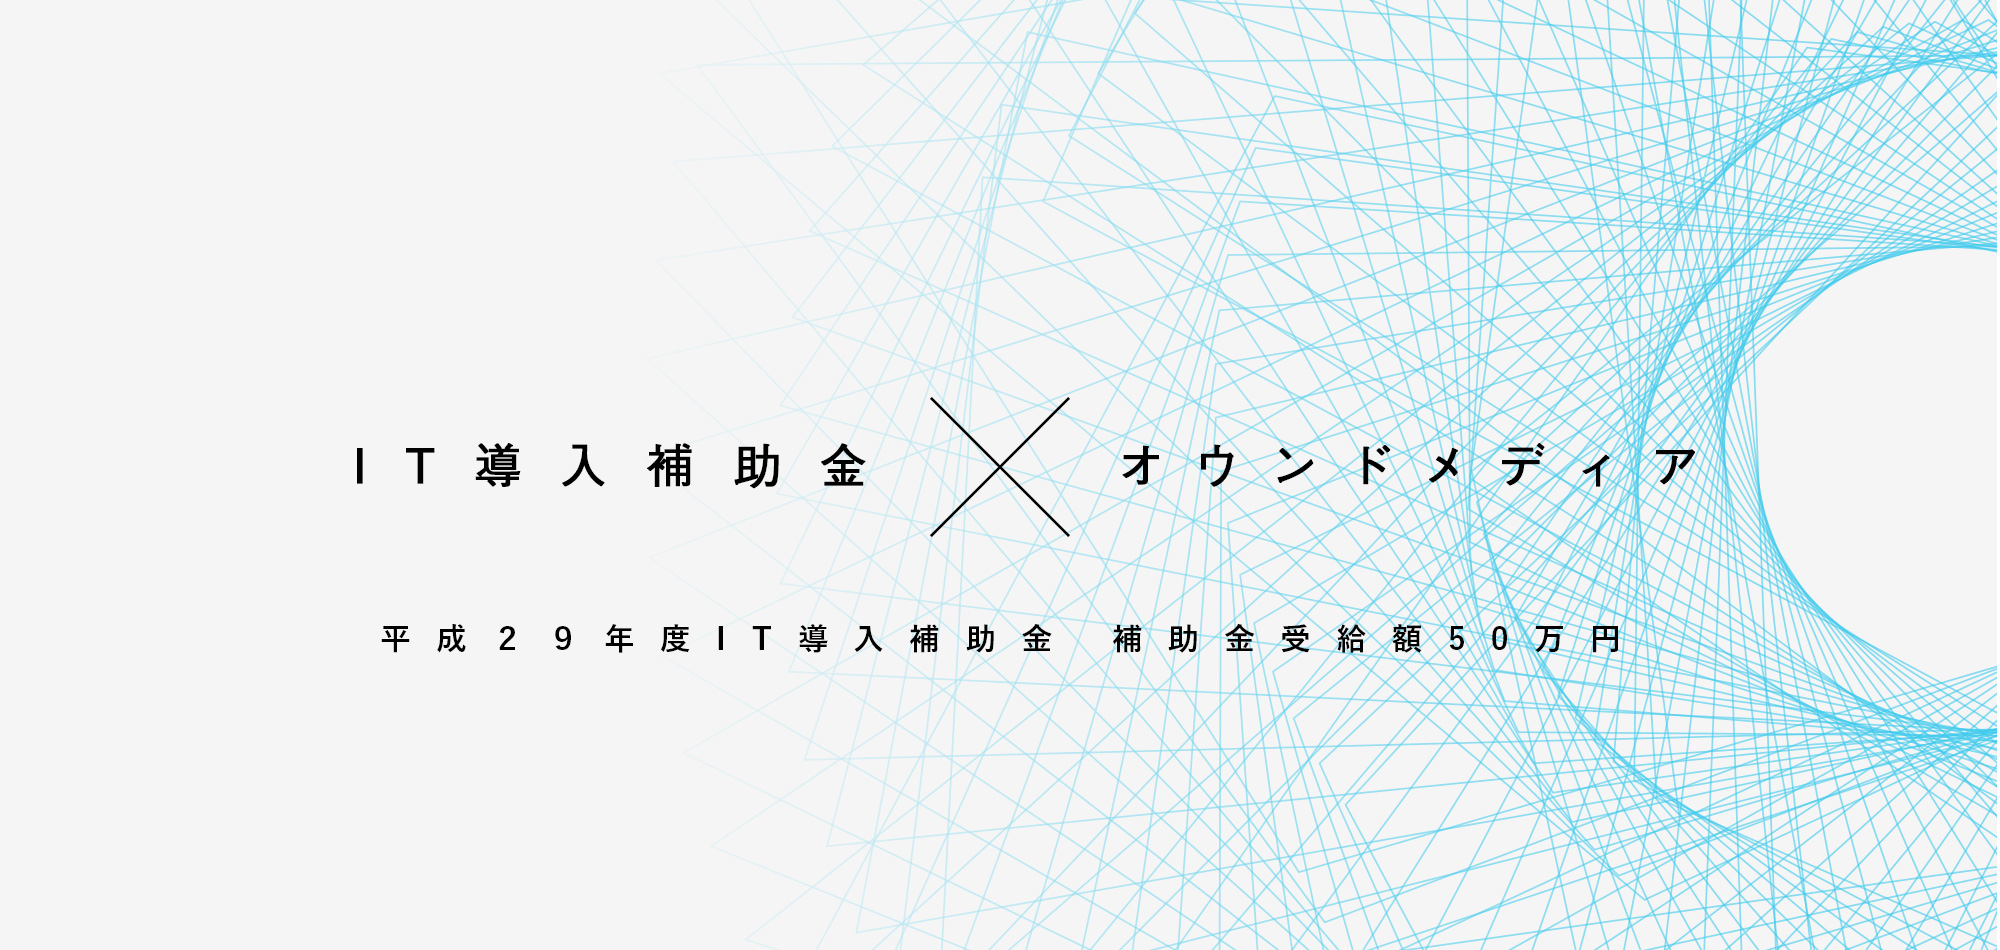
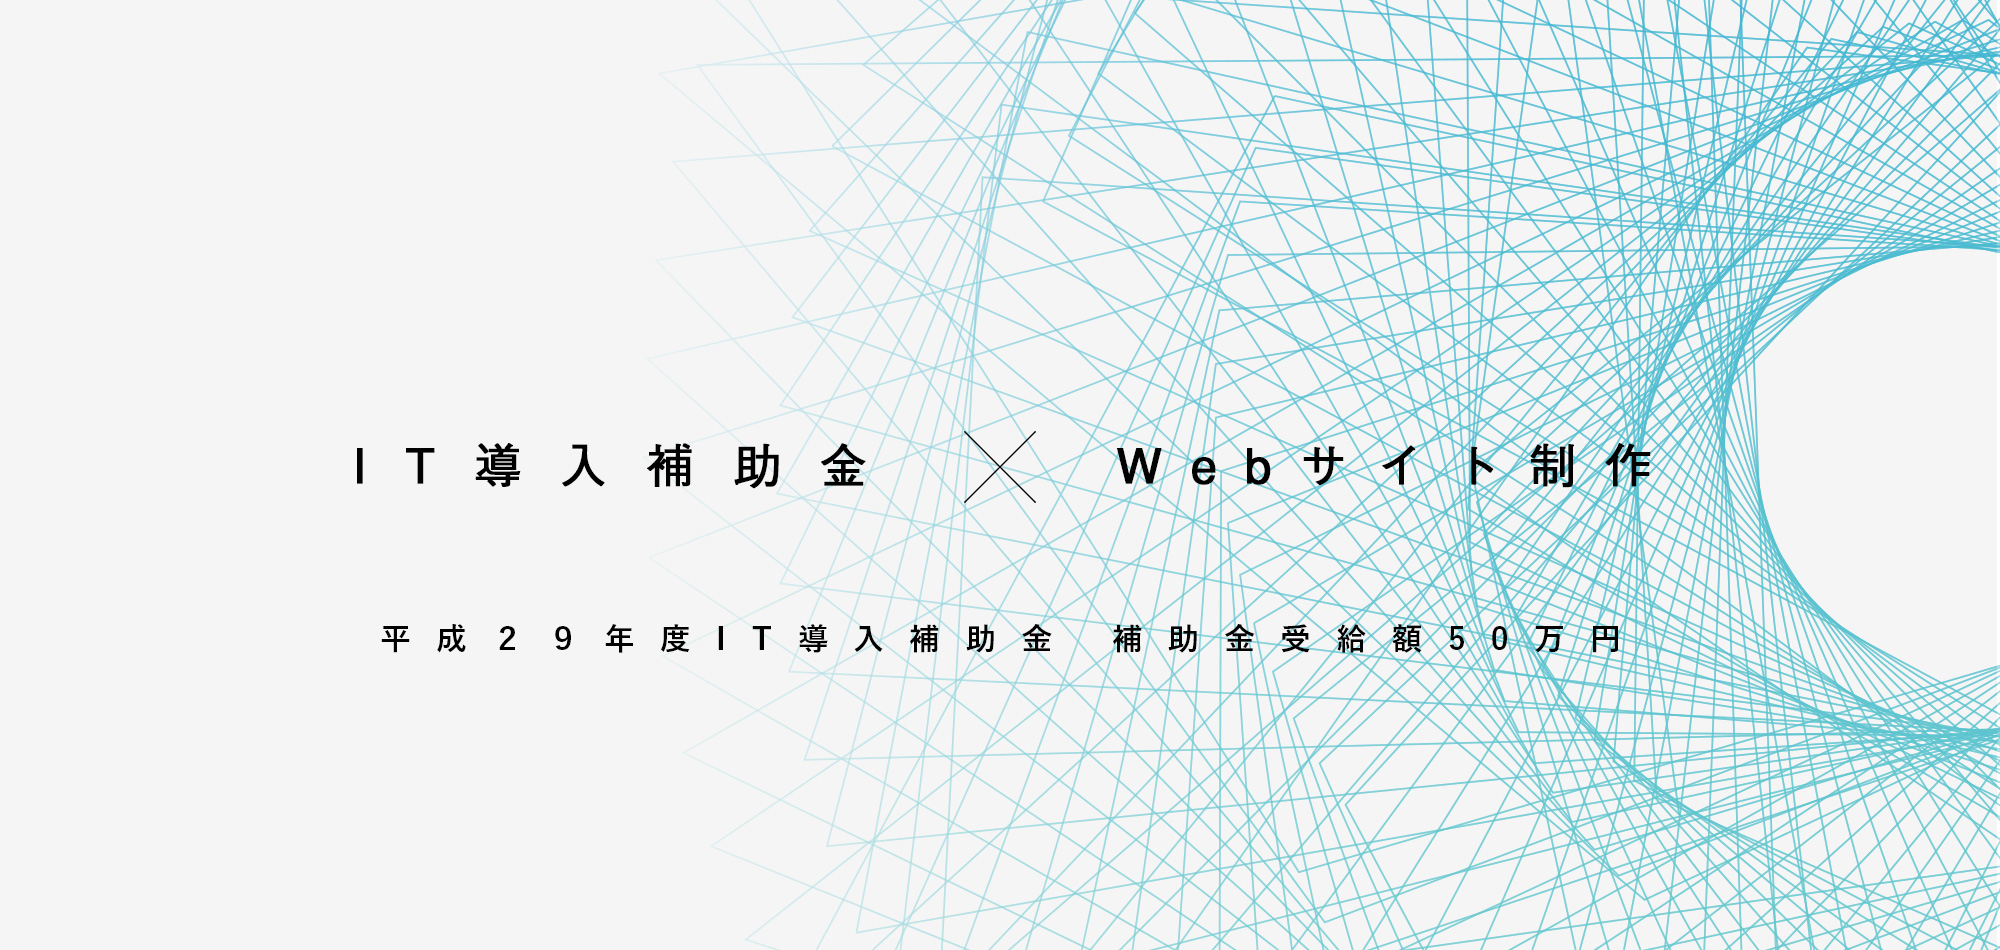
補助金更新

diff --git a/page-it-hojyokin.php b/page-it-hojyokin.php
@@ -14,15 +14,15 @@ Template Name: it-hojokin
         </picture>
       </section>
       <section class="s1">
-        <div class="s1_ttl_1">IT導入補助金でオウンドメディア制作して<br>コンテンツマーケティングに取り組みましょう！</div>
-        <div class="s1_ttl_2">昨年度、１次公募採択率１００％！<br>一次公募こそが補助金を受け取るチャンスです！</div>
+        <div class="s1_ttl_1">IT導入補助金でSEOに強い<br>明日から集客できるWebサイトを制作しましょう！</div>
+        <div class="s1_ttl_2">今年度の補助金予算500億円！<br>導入経費の1/2が対象（最大50万）！</div>
         <h2 class="it_h2_1">金沢ホームページ制作.COMの<br>IT導入補助金を活用したITツール</h2>
         <ul class="s1_ul">
-          <li><i><img src="<?php echo get_template_directory_uri(); ?>/images/it/s1_sns_1.png" alt="オウンドメディア"></i><h4>オウンドメディア制作</h4></li>
-          <li><i><img src="<?php echo get_template_directory_uri(); ?>/images/it/s1_web_2.png" alt="Webサイト"></i><h4>Webサイト新規制作</h4></li>
+          <li><i><img src="<?php echo get_template_directory_uri(); ?>/images/it/s1_sns_1.png" alt="オウンドメディア"></i><h4>Webサイト新規制作</h4></li>
+          <li><i><img src="<?php echo get_template_directory_uri(); ?>/images/it/s1_web_2.png" alt="Webサイト"></i><h4>求人特化サイト制作</h4></li>
           <li><i><img src="<?php echo get_template_directory_uri(); ?>/images/it/s1_analytics_3.png" alt="SEO戦略設計・運用コンサルティング"></i><h4>SEO戦略設計・<br>運用コンサルティング</h4></li>
         </ul>
-        <div class="s1_div_1">IT導入補助金の申請期限６月４日まで！<br>期限間近ではお断りさせていただくことがございますので、<br class="sp">お早めにご相談ください！</div>
+        <div class="s1_div_1">IT導入補助金　2次公募申請開始<br class="sp">　2018年6月20日（水）～2018年8月3日（金）<br>期間間近ではお断りさせていただくことがございますので、<br class="sp">お早めにご相談ください！</div>
       </section>
       <section class="s2">
         <h2 class="it_h2_1">IT導入補助金とは？</h2>
@@ -45,40 +45,40 @@ Template Name: it-hojokin
             <td>購入金額（税抜）の1/2<br class="sp">（上限50万円・下限15万円）<span>※消費税は補助金対象外となります。</span></td>
           </tr>
           <tr>
-            <th>一次公募期間</th>
-            <td>2018年4月20日（金）～<br class="sp"> 6月4日（月）<span>※弊社での交付申請受付締め切りは5月23日(水)となります。</span></td>
+            <th>二次公募期間</th>
+            <td>2018年6月20日（水）～<br class="sp"> 2018年8月3日（金）<span>※弊社での交付申請受付締切は8月1日となります。</span></td>
           </tr>
           <tr>
             <th>対象ツール</th>
-            <td>①オリジナルWebサイト制作<br>②オウンドメディアサイト制作<br>③SEO戦略設計・運用コンサルティング</td>
+            <td>①Webサイト新規制作<br>②リクルートサイト制作<br>③SEO戦略設計・運用コンサルティング</td>
           </tr>
         </table>
         <p class="s3_p_1">※IT導入補助金の詳細は公募要項をご確認ください</p>
         <div class="s3_btn"><a href="https://www.it-hojo.jp/h29/doc/pdf/h29_application_guidelines.pdf" target="_blank">公募要項</a></div>
       </section>
       <section class="s4">
-        <h2 class="it_h2_1">オウンドメディアとは？</h2>
-        <p class="s4_p_1">企業が運営するウェブマガジンや<br class="sp">ブログをオウンドメディアと呼んでいます。<br>日本では、一般的に企業が運営する<br class="sp">ウェブマガジンを指すことが多いです。</p>
+        <h2 class="it_h2_1">SEOに強いWebサイトとは？</h2>
+        <p class="s4_p_1">一般的なWebサイトでは、<br class="sp">検索結果で引っかかりにくく思ったように<br class="sp">アクセス数を増やすことができませんが、<br>SEO（検索エンジン最適化）を行うことで<br class="sp">狙ったユーザーを集客することが可能となります。<br>金沢ホームページ制作.COMでは金沢で<br class="sp">最もSEOに強いWeb制作会社として<br>「明日から集客できるホームページ」を制作致します。</p>
       </section>
       <section class="s5">
-        <h2 class="it_h2_1">オウンドメディアを行うメリット</h2>
+        <h2 class="it_h2_1">WebサイトでSEOを行うメリット</h2>
         <ul class="s5_ul_1">
-          <li><h4>広告施策と違い、サイトが資産となる</h4><p>リスティング広告やSNS広告と違いSEO主体のWeb運営のため消耗せず、資産としてWeb上に残り続けます。</p></li>
-          <li><h4>見込み客の獲得に適している</h4><p>これまでのユーザーだけでなく、潜在顧客の掘り起こしを得意とするため集客のベースアップに最適です。</p></li>
-          <li><h4>価格競争に巻き込まれない</h4><p>信頼と価値のあるコンテンツを継続的に提供することで、新たな差別化の強みを持つことができるのです。</p></li>
+          <li><h4>ブランディング効果</h4><p>SEOで上位表示しているサイトは多くのユーザーが良い印象を持ち、信頼感を感じてもらうことができます。</p></li>
+          <li><h4>中長期的にアクセスを見込める</h4><p>SEOで上位表示をすることで、様々なキーワードも連れて上がることにより、中長期的な流入が見込めます。</p></li>
+          <li><h4>広告と比較しての費用対効果が高い</h4><p>リスティング広告やSNS広告と違って、毎回費用をかけずとも集客ができるので費用対効果が高いです。</p></li>
         </ul>
       </section>
       <section class="s6">
-        <h2 class="it_h2_1">オウンドメディア以外にも<br>金沢ホームページ制作.COMの<br class="sp">IT導入補助金は<br>こんな方におすすめです！</h2>
+        <h2 class="it_h2_1">Webサイト制作以外にも<br>金沢ホームページ制作.COMの<br class="sp">IT導入補助金は<br>こんな方におすすめです！</h2>
         <ul class="s6_ul_1">
-          <li>オウンドメディアを作ってコンテンツマーケティングをやってみたい方</li>
+          <li>求人採用に特化したリクルートサイトを作りたい方</li>
           <li>Webサイトが無かったので<br class="sp">この機会に作りたい方</li>
           <li>新しくサービス紹介用の<br class="sp">Webサイトを作りたい方</li>
           <li>SEOをやりたいがこれまで予算が合わずできなかった方</li>
         </ul>
       </section>
       <section class="sl">
-        <h2 class="sl_h2_1">５月はIT導入補助金に<br class="sp">関する無料相談会を毎日開催！</h2>
+        <h2 class="sl_h2_1">6月はIT導入補助金に関する無料相談会を毎日開催！</h2>
         <p class="sl_p_1">ITビジネスプラザ武蔵にて、IT導入補助金に関するご相談を募集期間中毎日行っております。<br><span>お気軽にご相談ください。</span></p>
         <div class="sl_btn"><a href="<?php echo home_url(); ?>/contact/">ご相談予約はこちら</a></div>
       </section>
